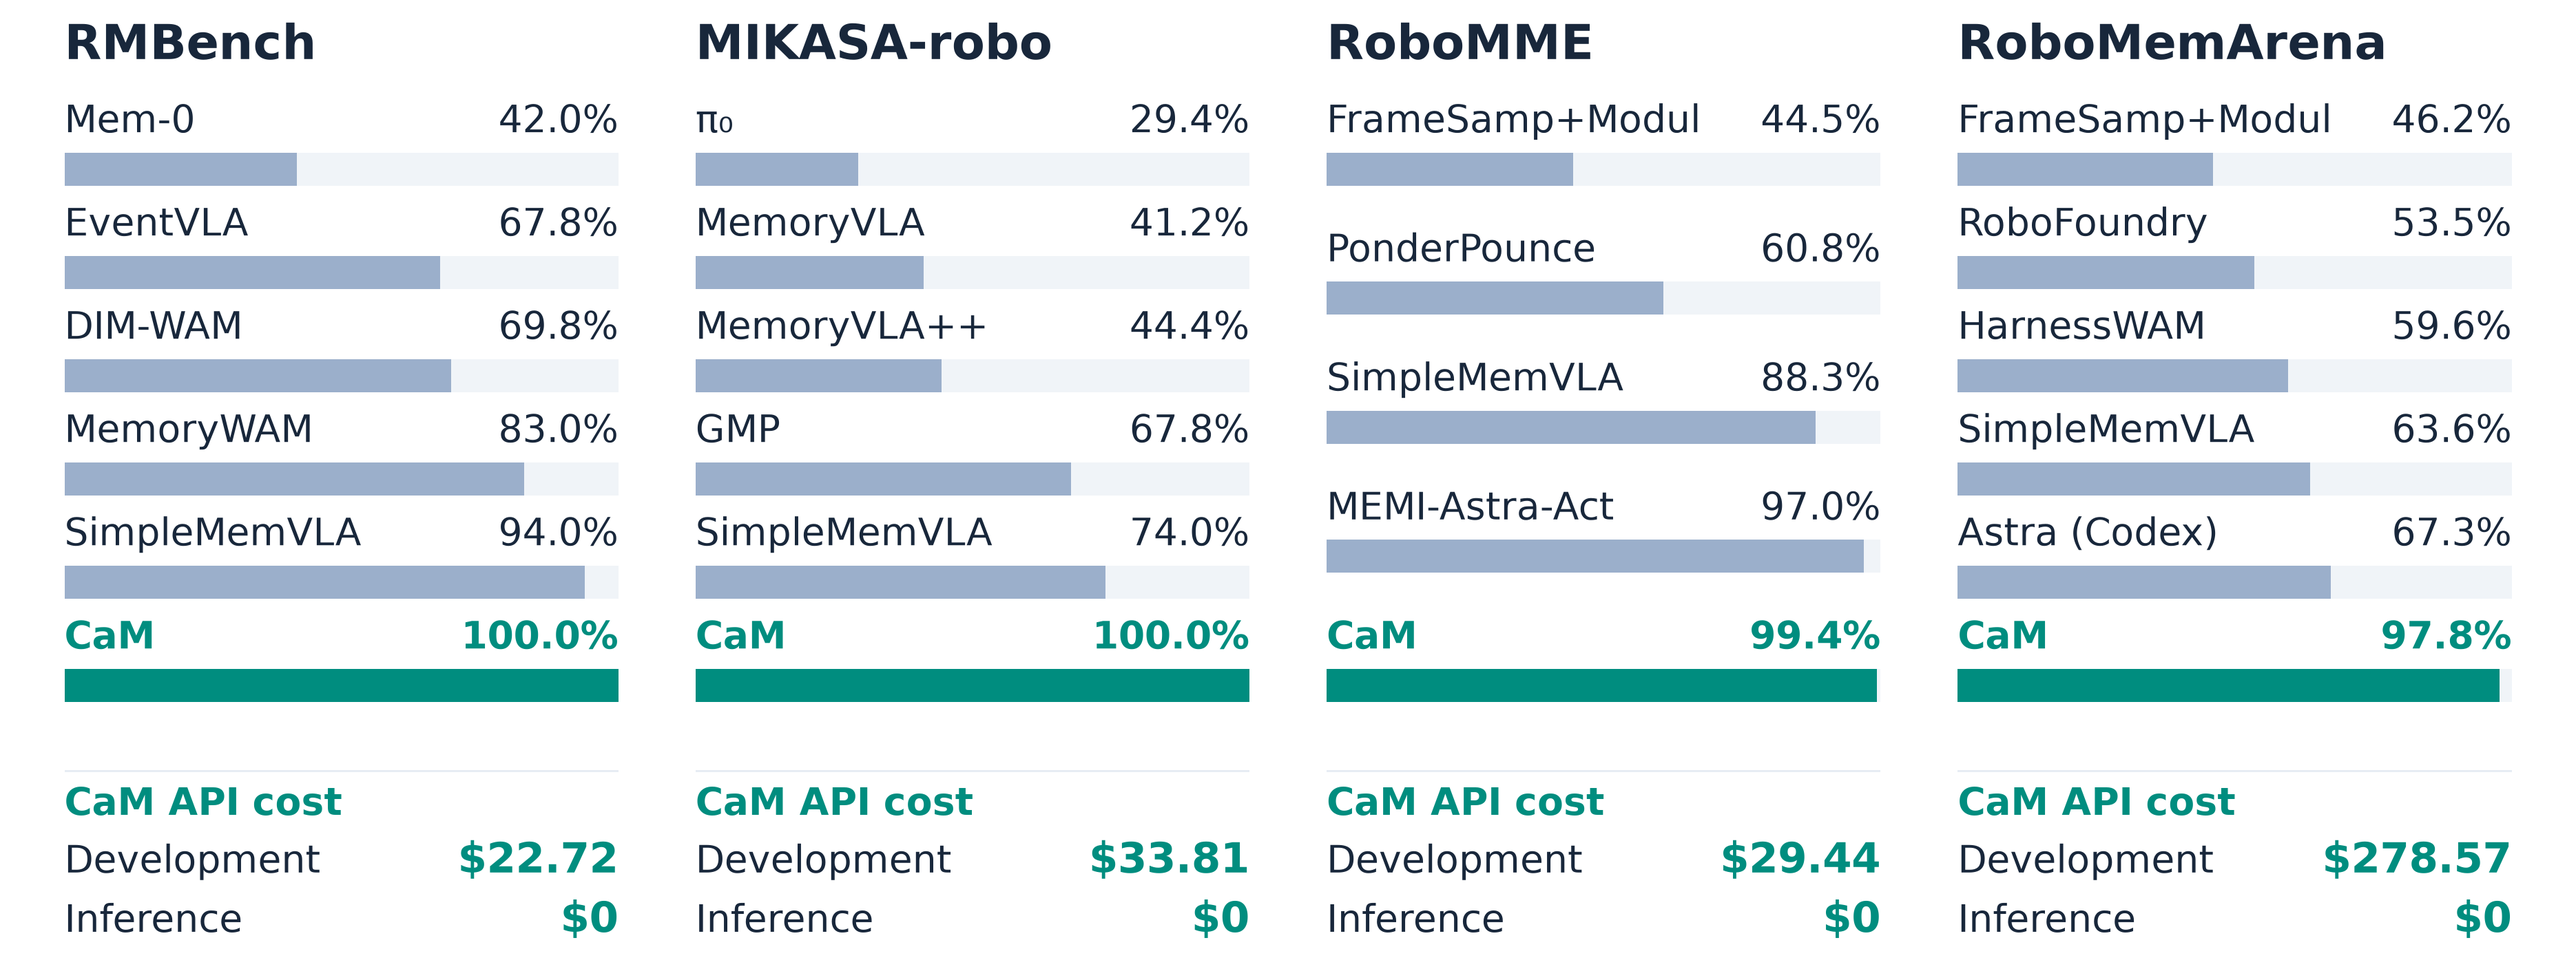
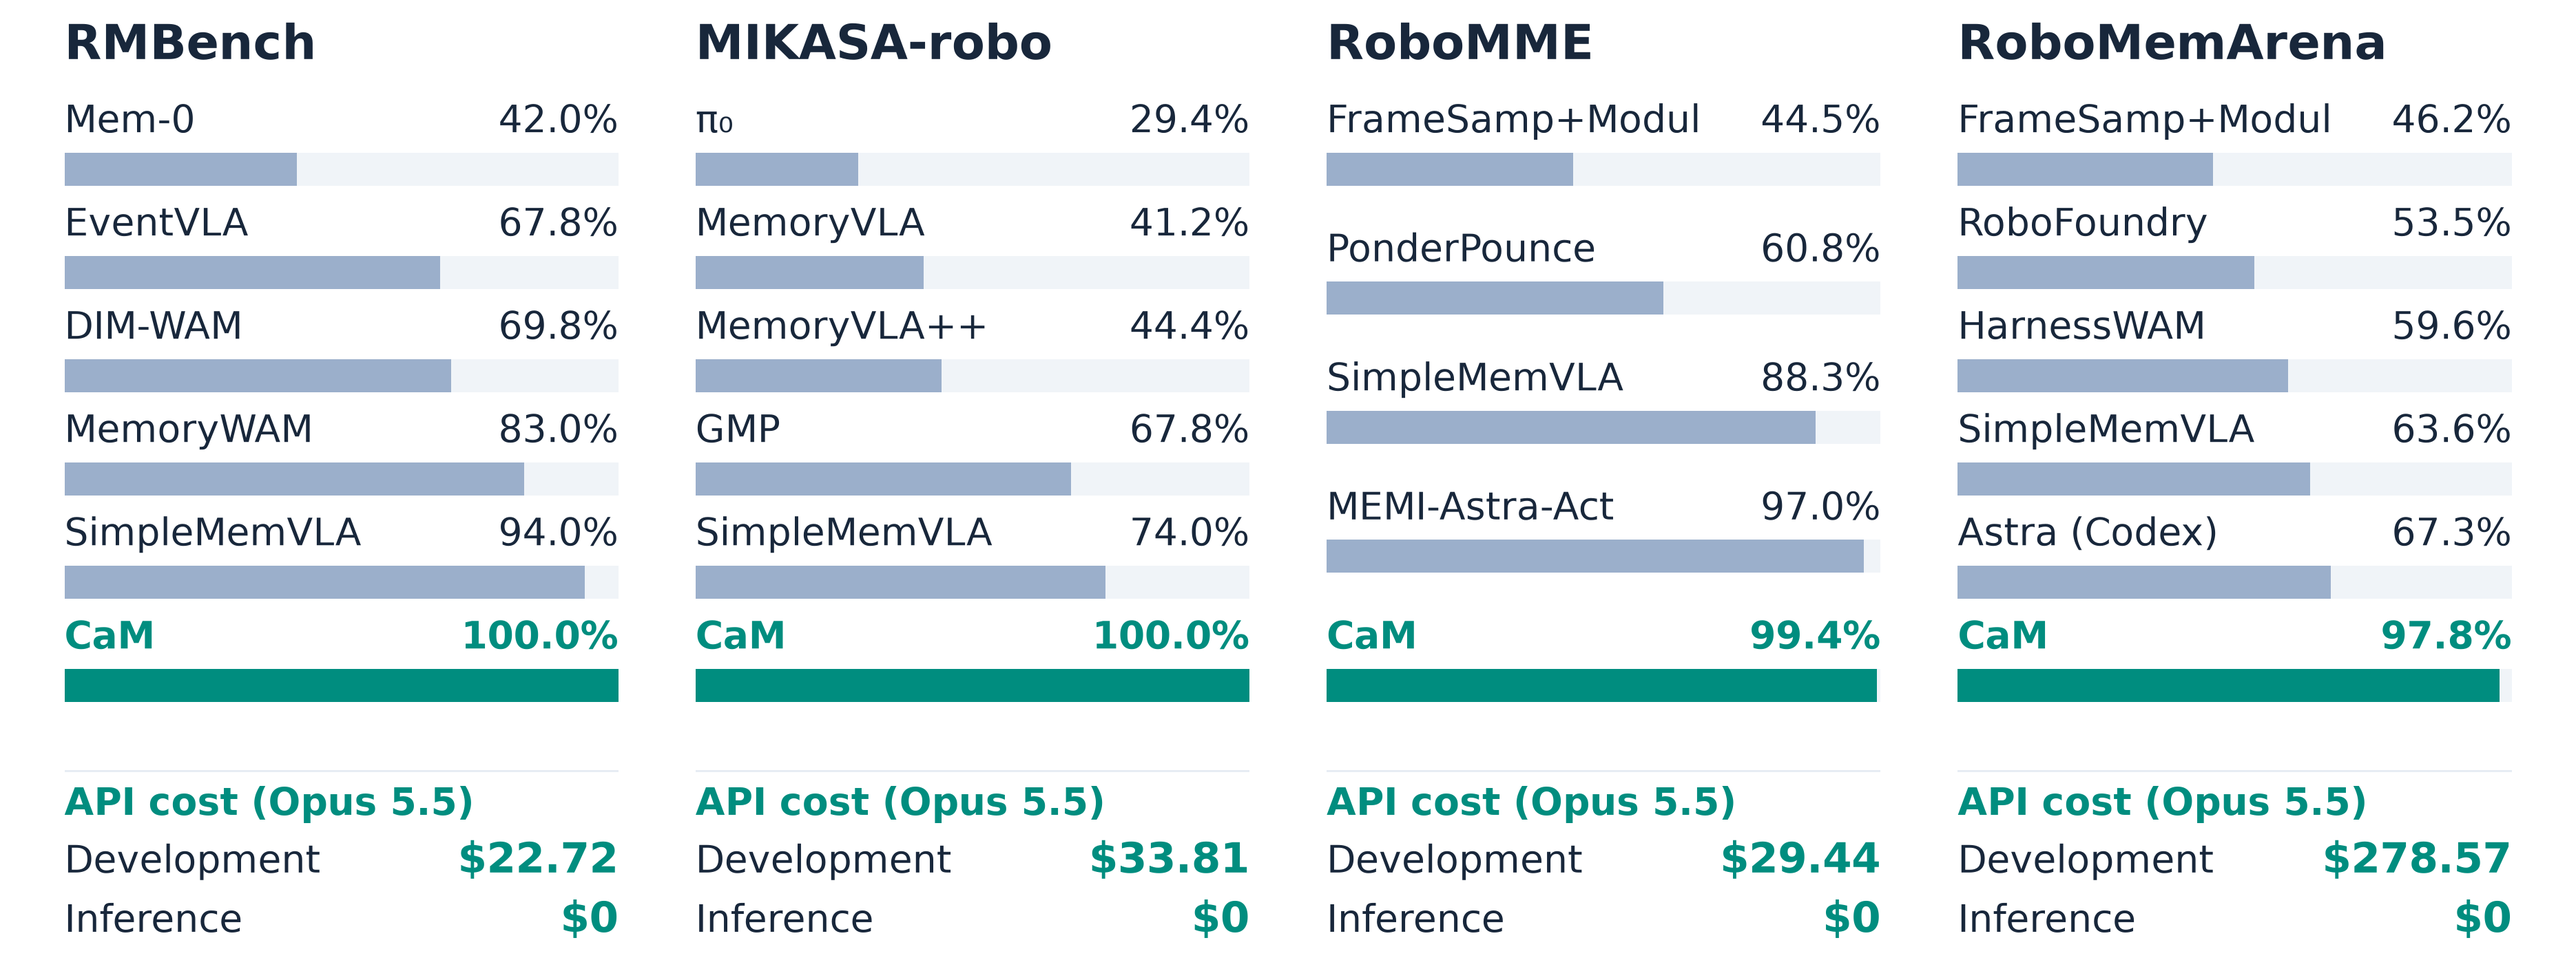
Label benchmark API costs with Opus 5.5

diff --git a/scripts/plot_public_results.py b/scripts/plot_public_results.py
@@ -68,7 +68,7 @@ def benchmark_comparison():
         footer.set_xlim(0, 1)
         footer.set_ylim(0, 1)
         footer.plot([0, 1], [1, 1], color=LINE, lw=1.5)
-        footer.text(0, .73, "CaM API cost", fontsize=18, weight="bold", color=ACCENT)
+        footer.text(0, .73, "API cost (Opus 5.5)", fontsize=18, weight="bold", color=ACCENT)
         for y, label, value in ((.38, "Development", cost["development_api_cost_usd"]),
                                 (.02, "Inference", cost["inference_api_cost_usd"])):
             footer.text(0, y, label, fontsize=18, color=INK)
